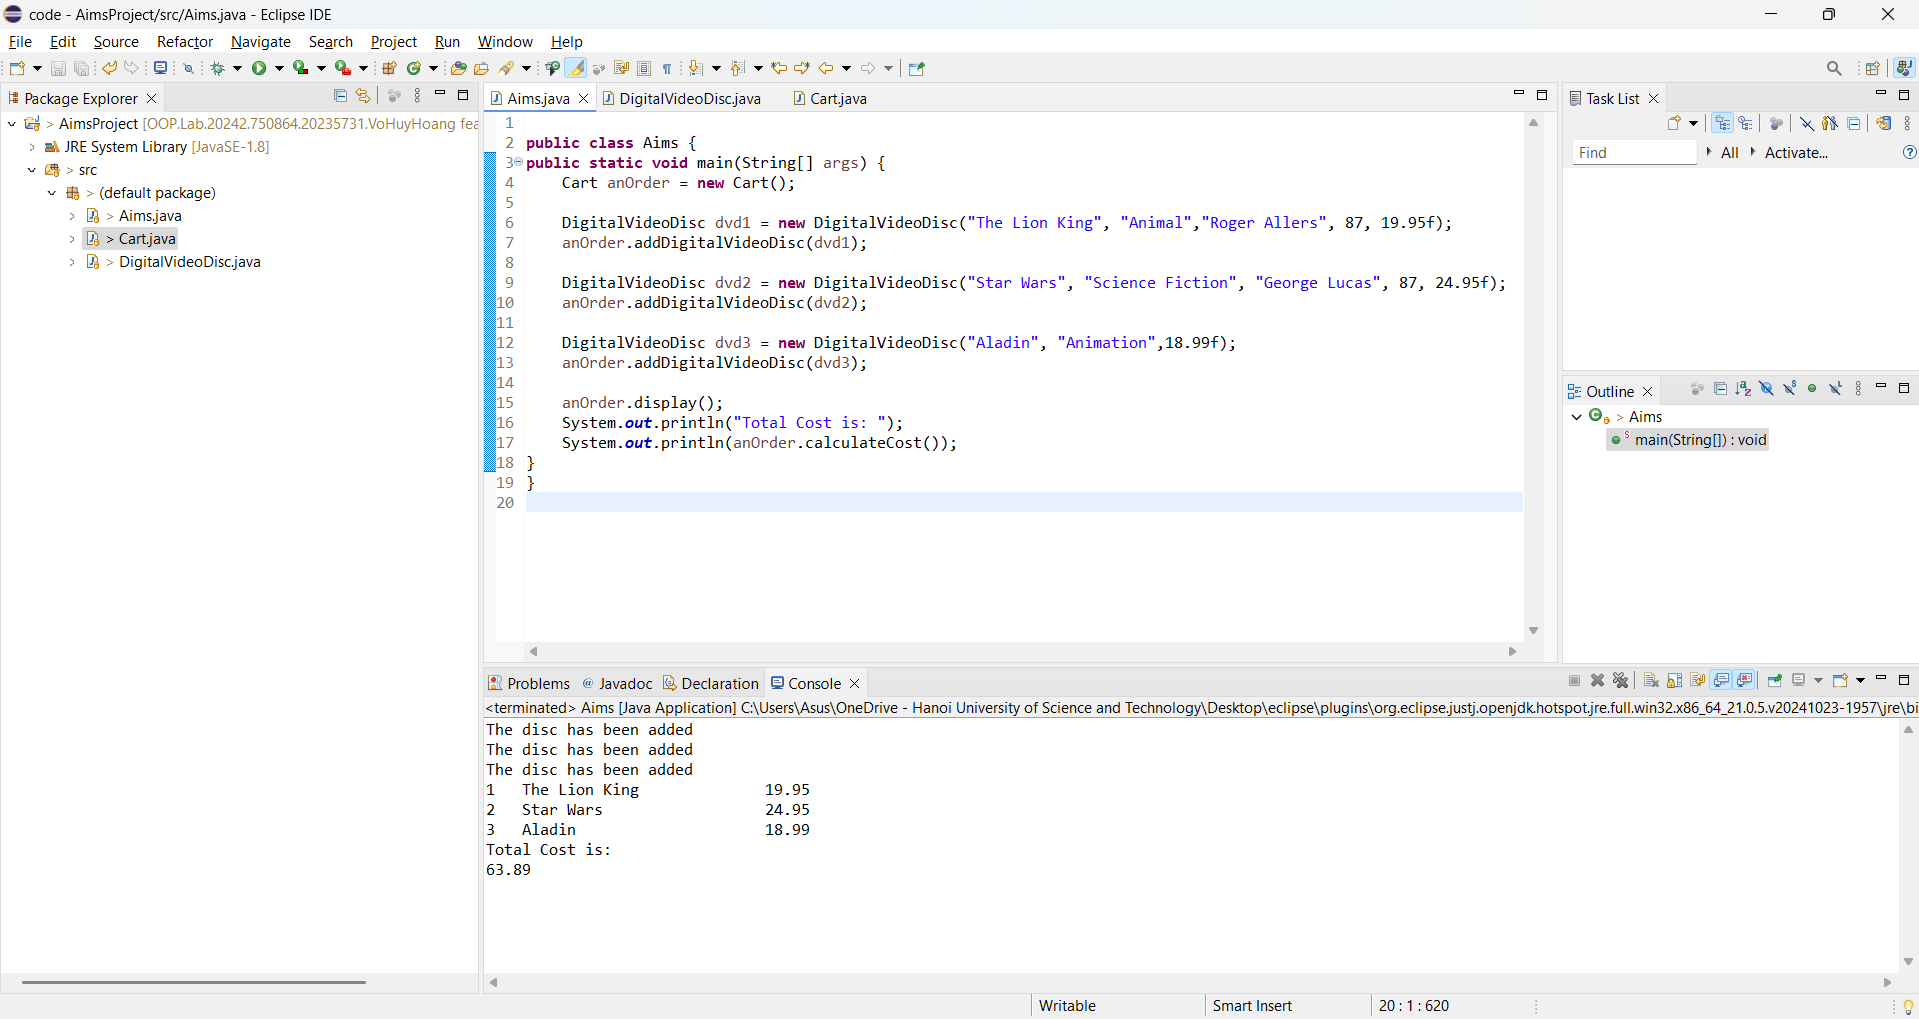
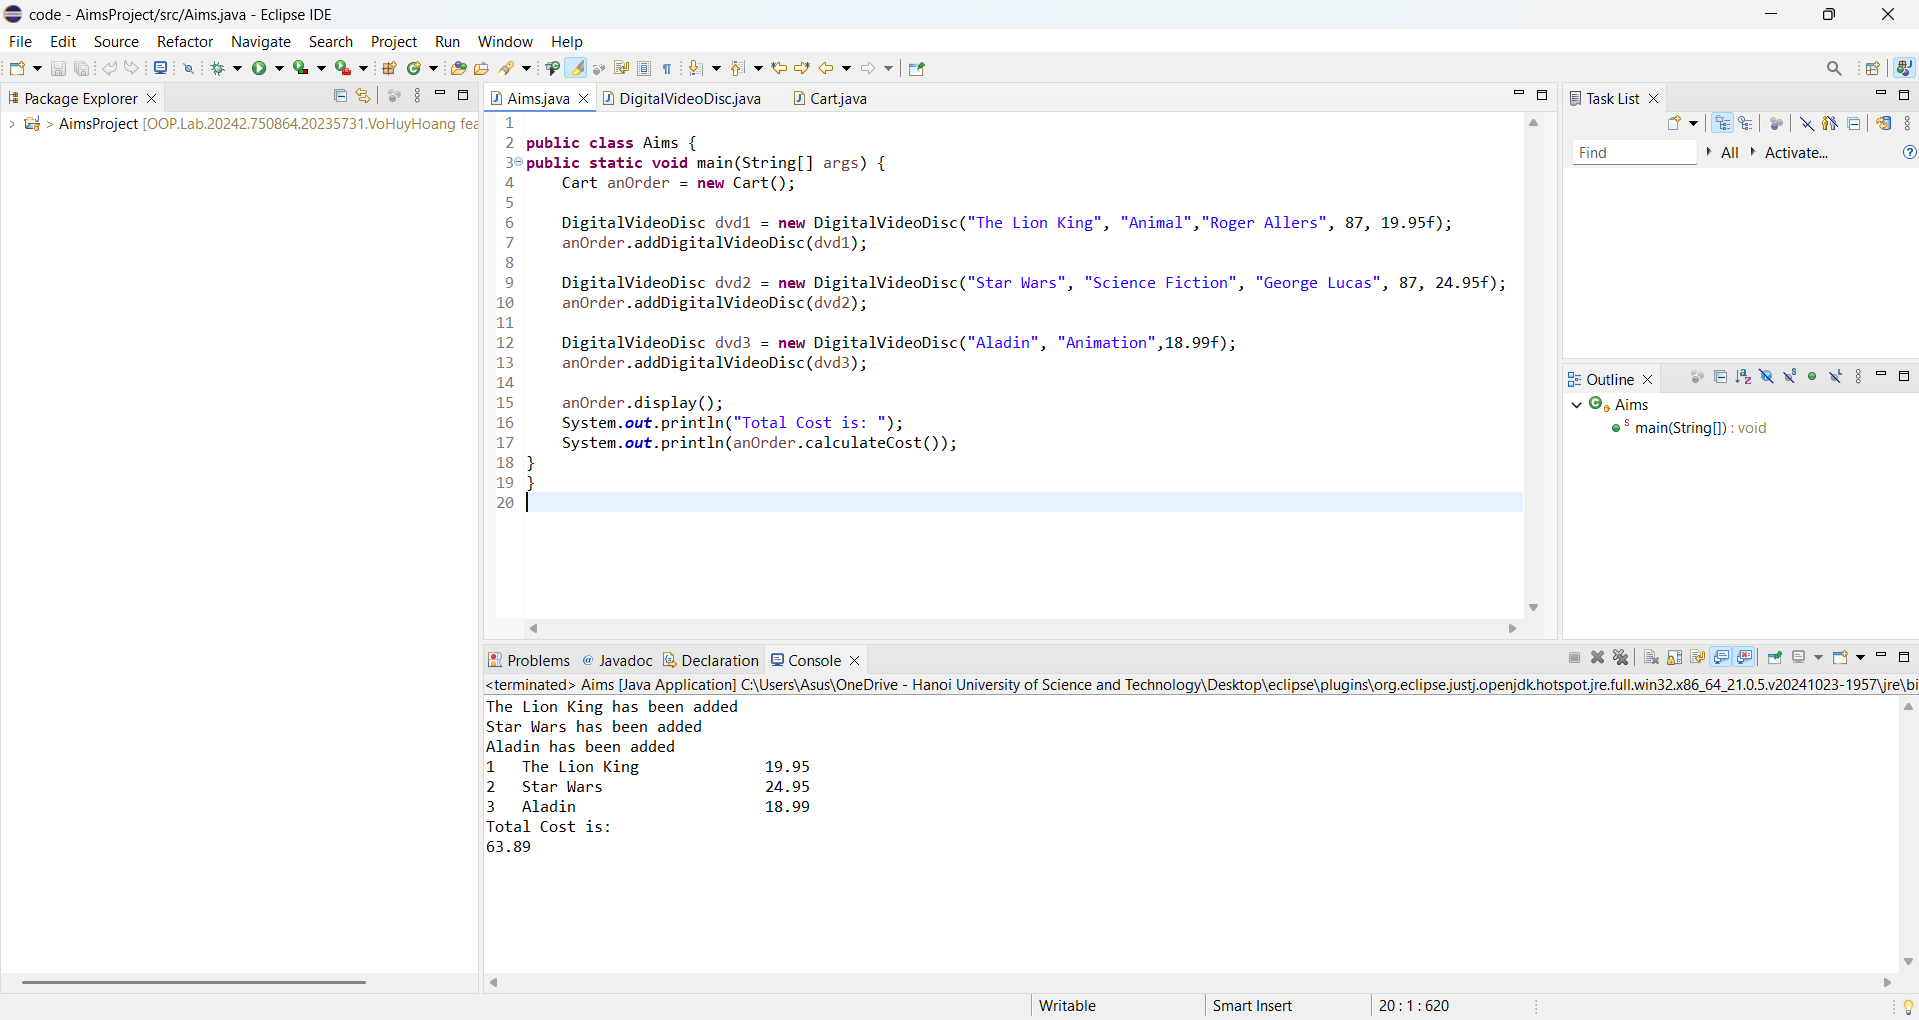
finish section 13

diff --git a/lab02/Design/code/AimsProject/src/Cart.java b/lab02/Design/code/AimsProject/src/Cart.java
@@ -7,7 +7,7 @@ public class Cart {
     	if(qtyOrdered<MAX_NUMBERS_ORDERED) {
     		itemsOrdered[qtyOrdered]=disc;
     		qtyOrdered+=1;
-    		System.out.println("The disc has been added");
+    		System.out.println( disc.getTitle() + " has been added");
     		
     	}
     	else {
@@ -25,7 +25,7 @@ public class Cart {
     			}
     			itemsOrdered[qtyOrdered-1]=null;
     			qtyOrdered--;
-    			System.out.println("The disc has been removed");
+    			System.out.println(disc.getTitle() + " has been removed");
     			break;
     		}
     	}

diff --git a/lab02/Design/code/AimsProject/src/Aims.java b/lab02/Design/code/AimsProject/src/Aims.java
@@ -12,8 +12,10 @@ public static void main(String[] args) {
 	DigitalVideoDisc dvd3 = new DigitalVideoDisc("Aladin", "Animation",18.99f);
 	anOrder.addDigitalVideoDisc(dvd3);
 	
+	anOrder.removeDigitalVideoDisc(dvd2);
+	
 	anOrder.display();
 	System.out.println("Total Cost is: ");
-	System.out.println(anOrder.calculateCost());
+	System.out.printf("%.2f", anOrder.calculateCost());
 }
 }
